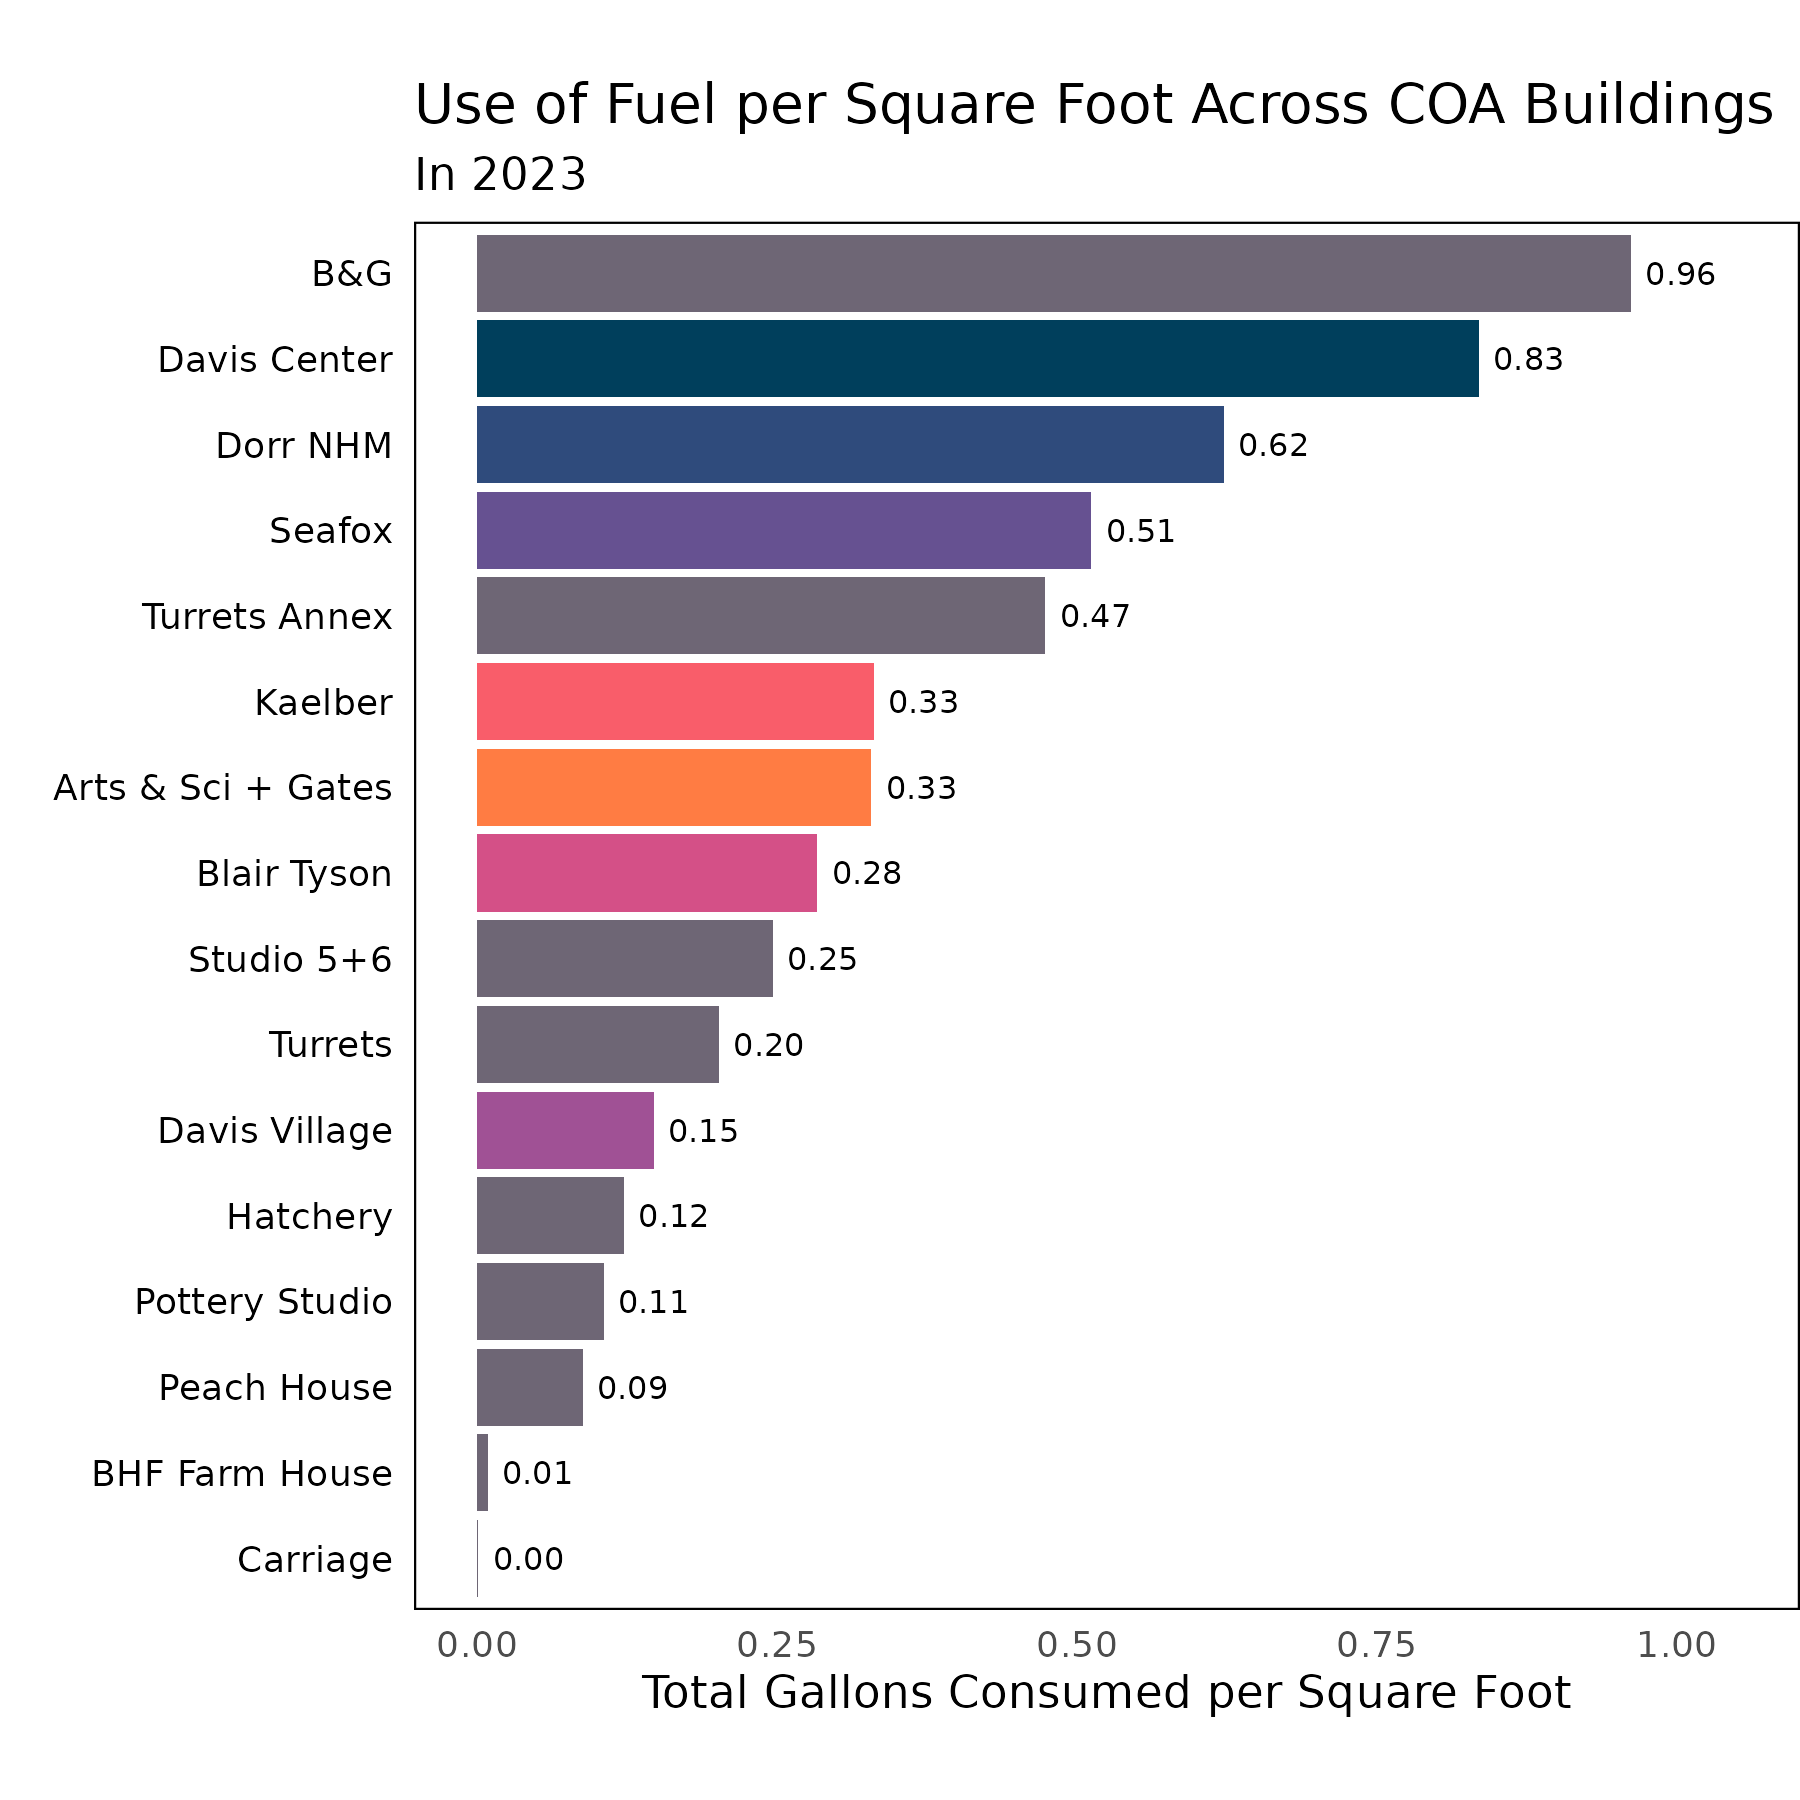
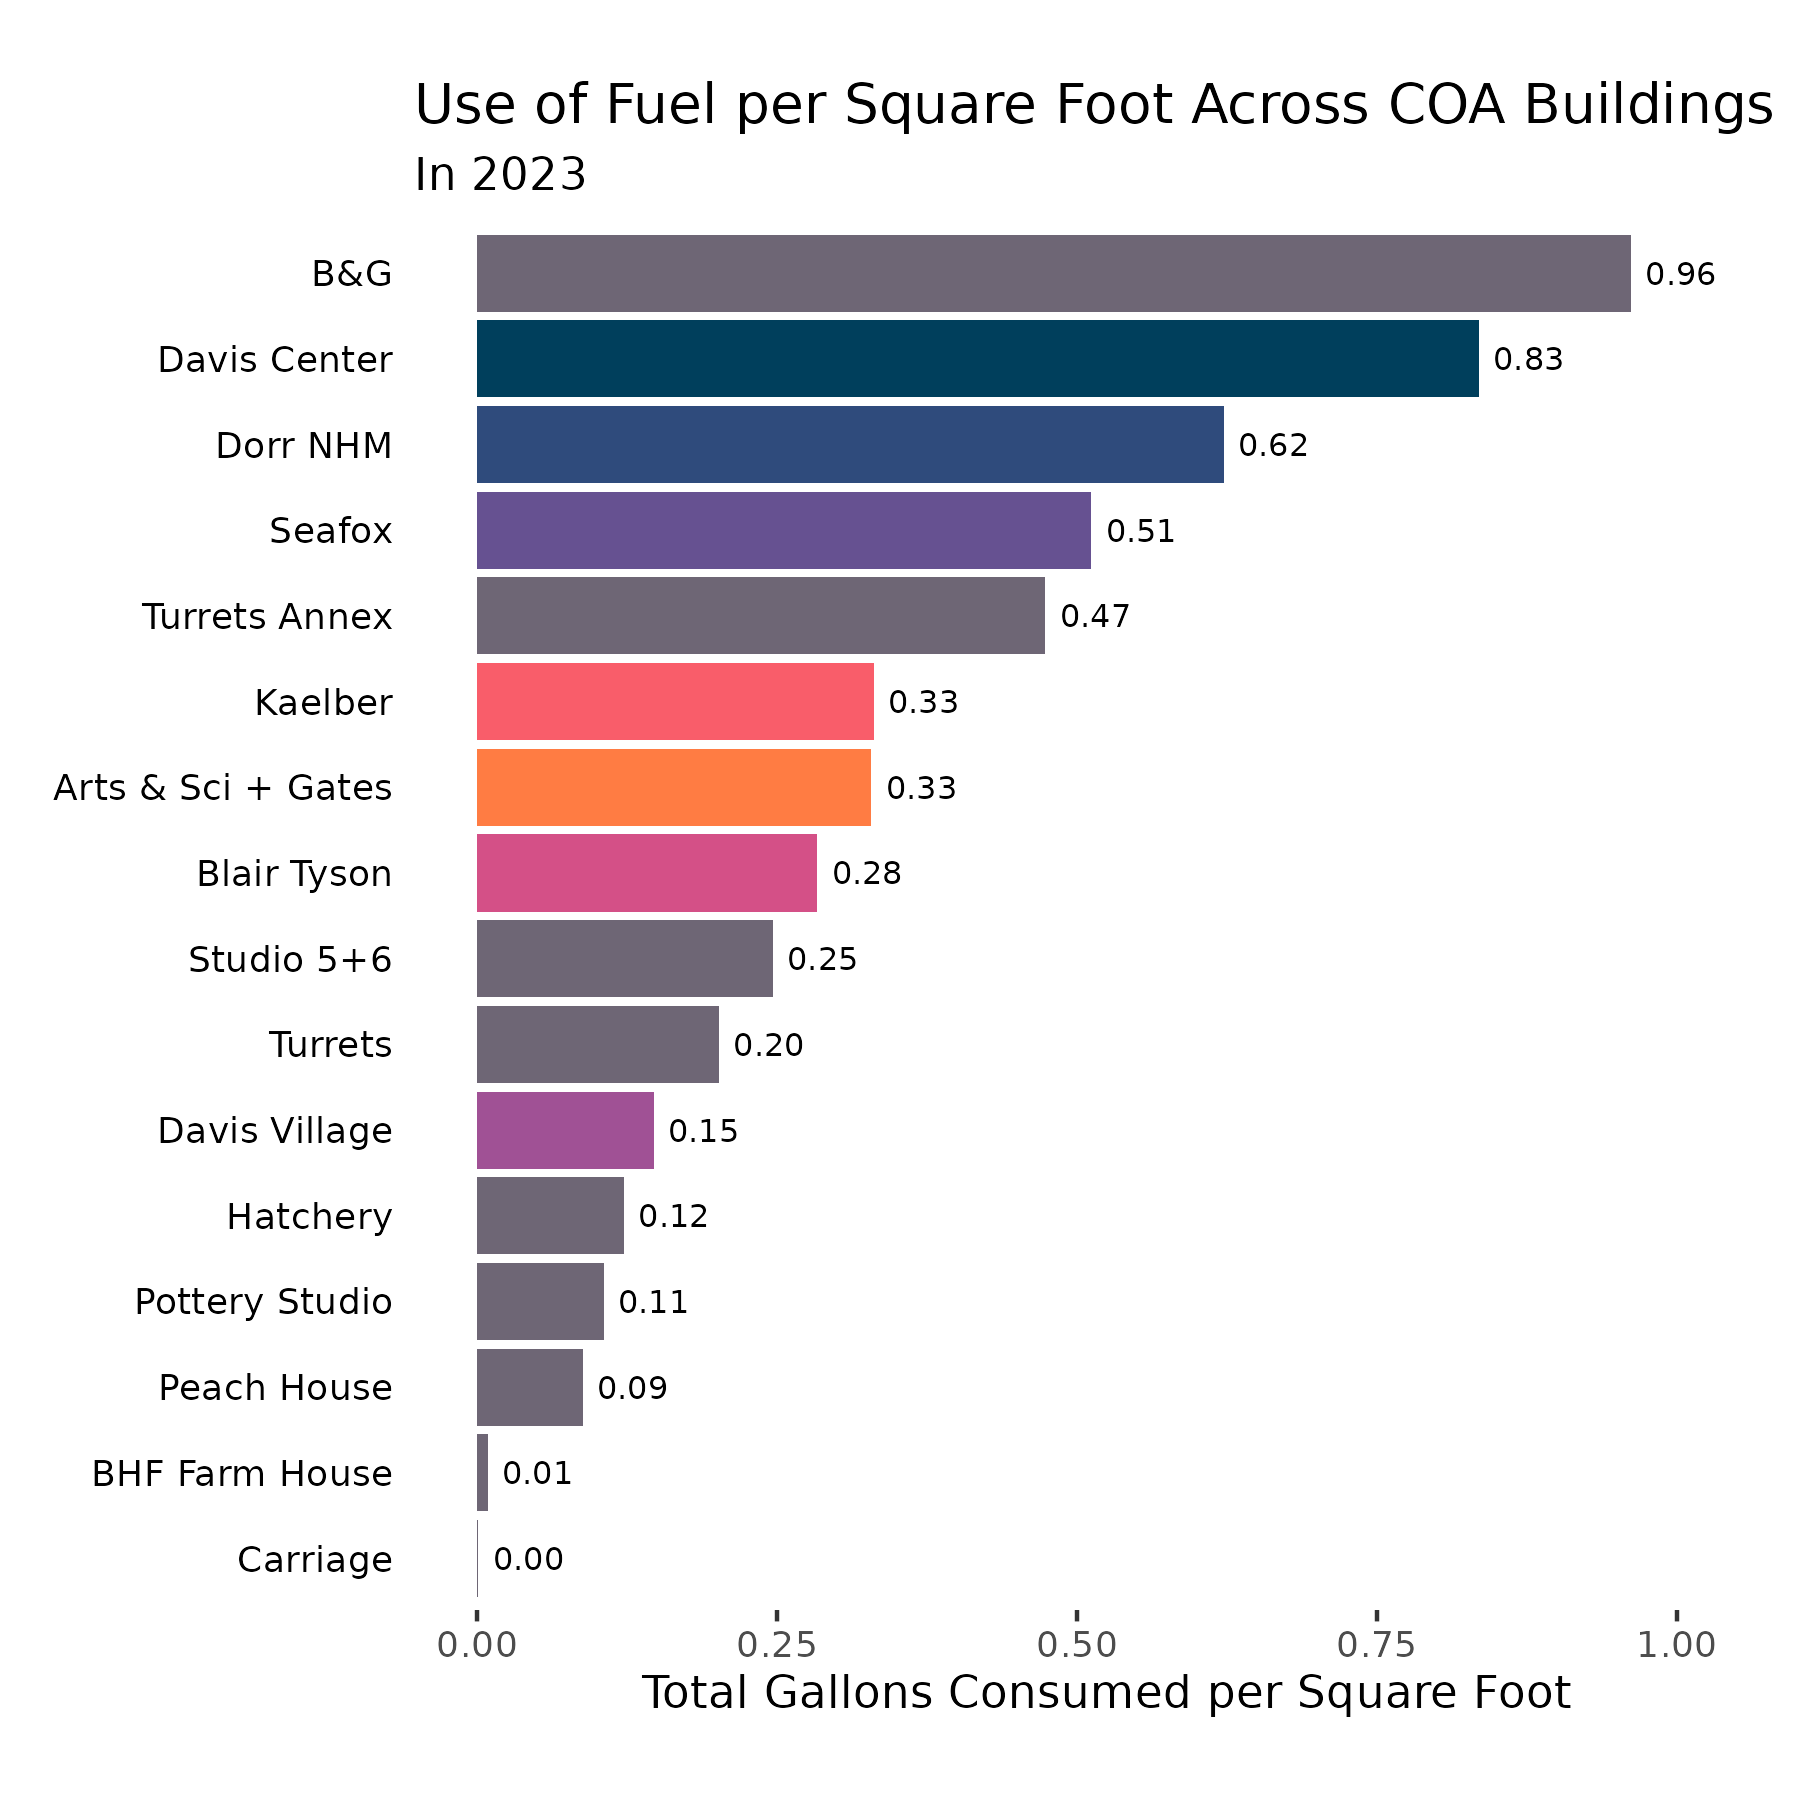
Fix square foot graph outline

Changed region(s): [[0.9956, 0.1244, 1.0, 0.9022]]

diff --git a/memo/memo.md b/memo/memo.md
@@ -447,12 +447,12 @@ fuels |>
        x = "Total Gallons Consumed per Square Foot",
        y = "") +
   scale_fill_manual(values = pal) +
-  theme_minimal() +
   theme(
     legend.position = "none",
     panel.background = element_rect(fill = "transparent"), 
     panel.grid.major = element_blank(), 
     panel.grid.minor = element_blank(),
+
     plot.background = element_rect(fill = "transparent", 
                                        color = NA),
     plot.margin = margin(20,0,20,0),
